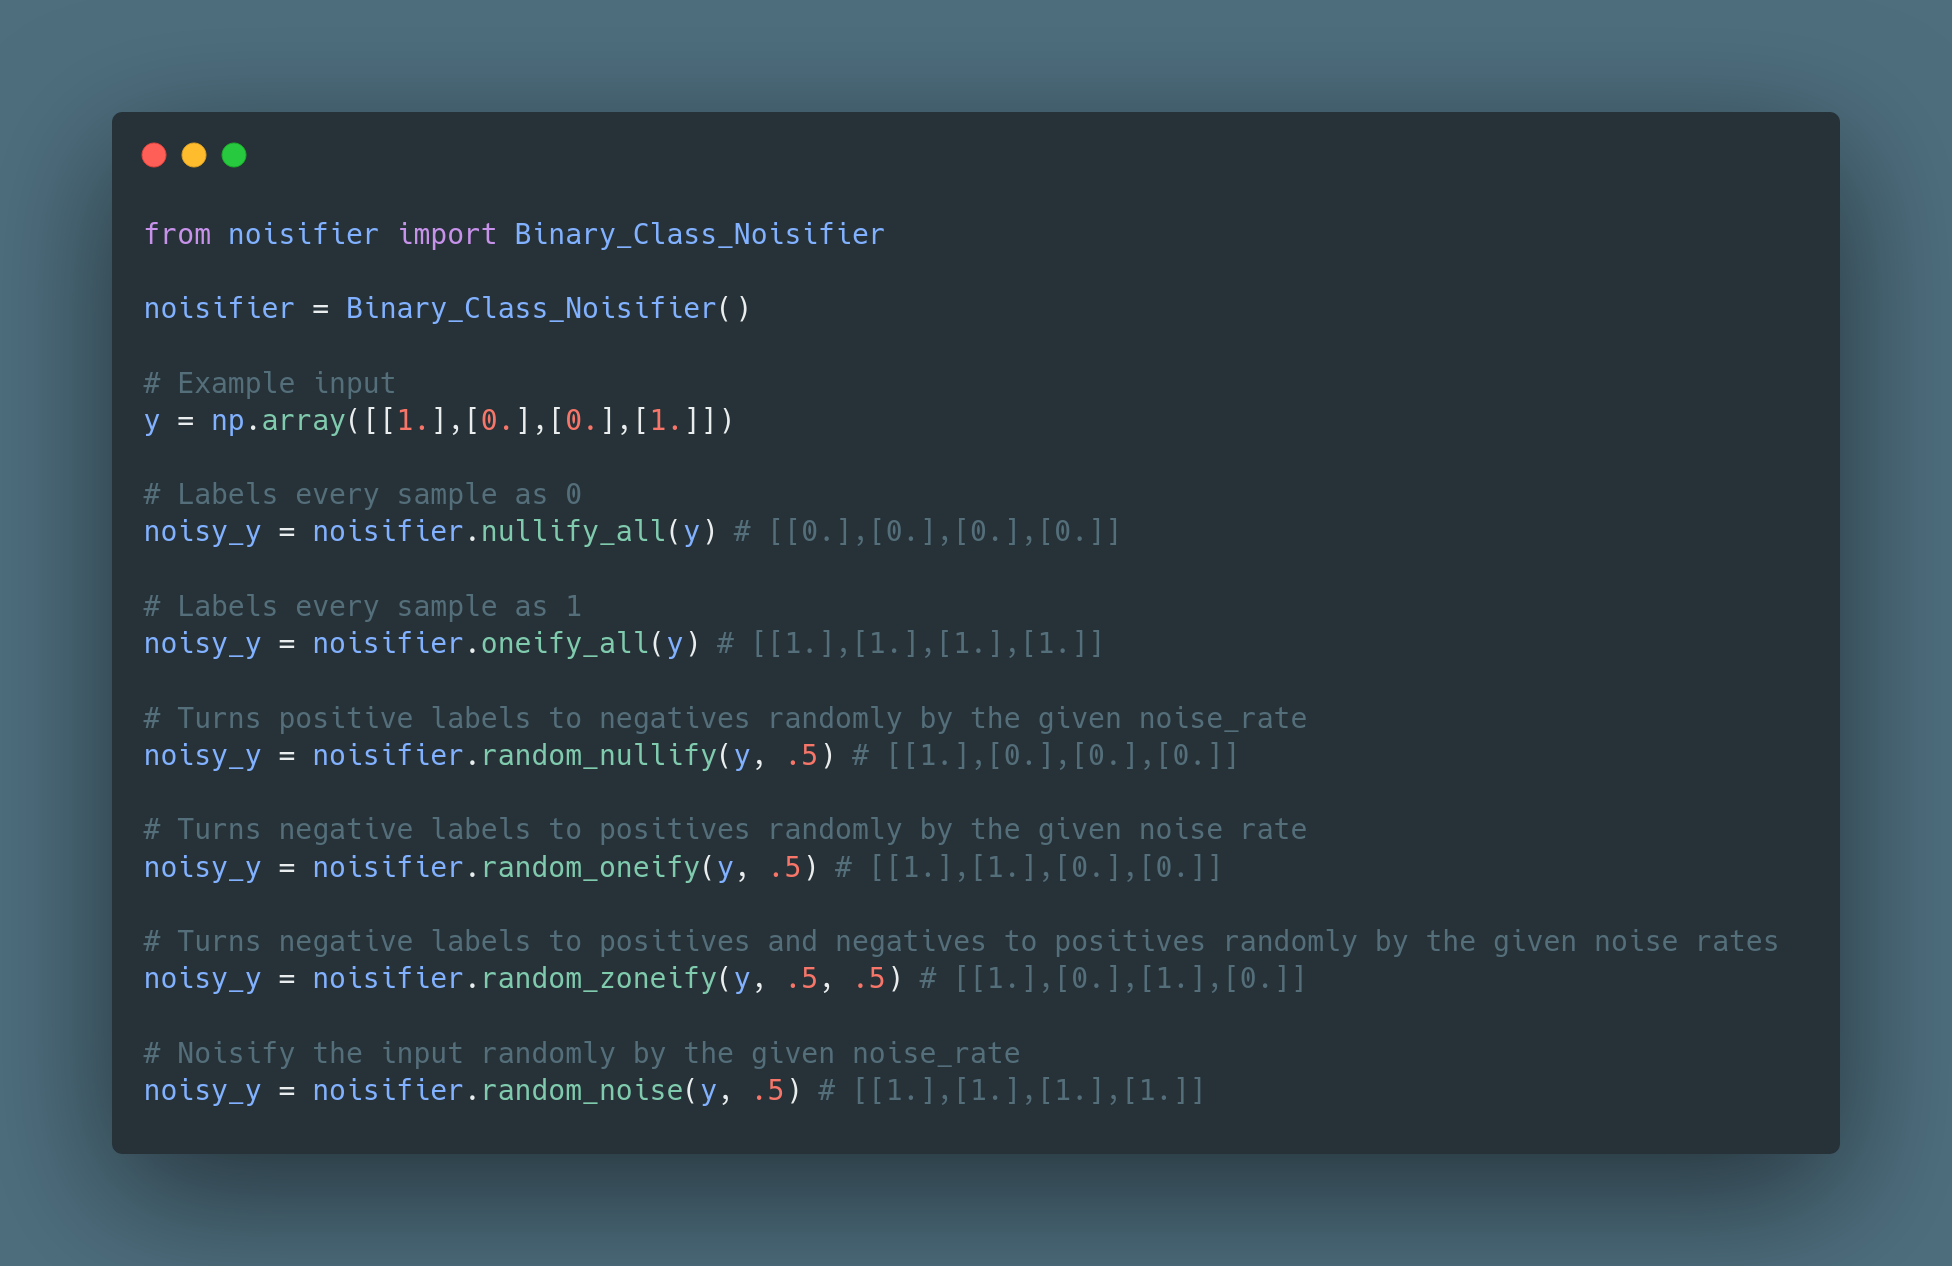
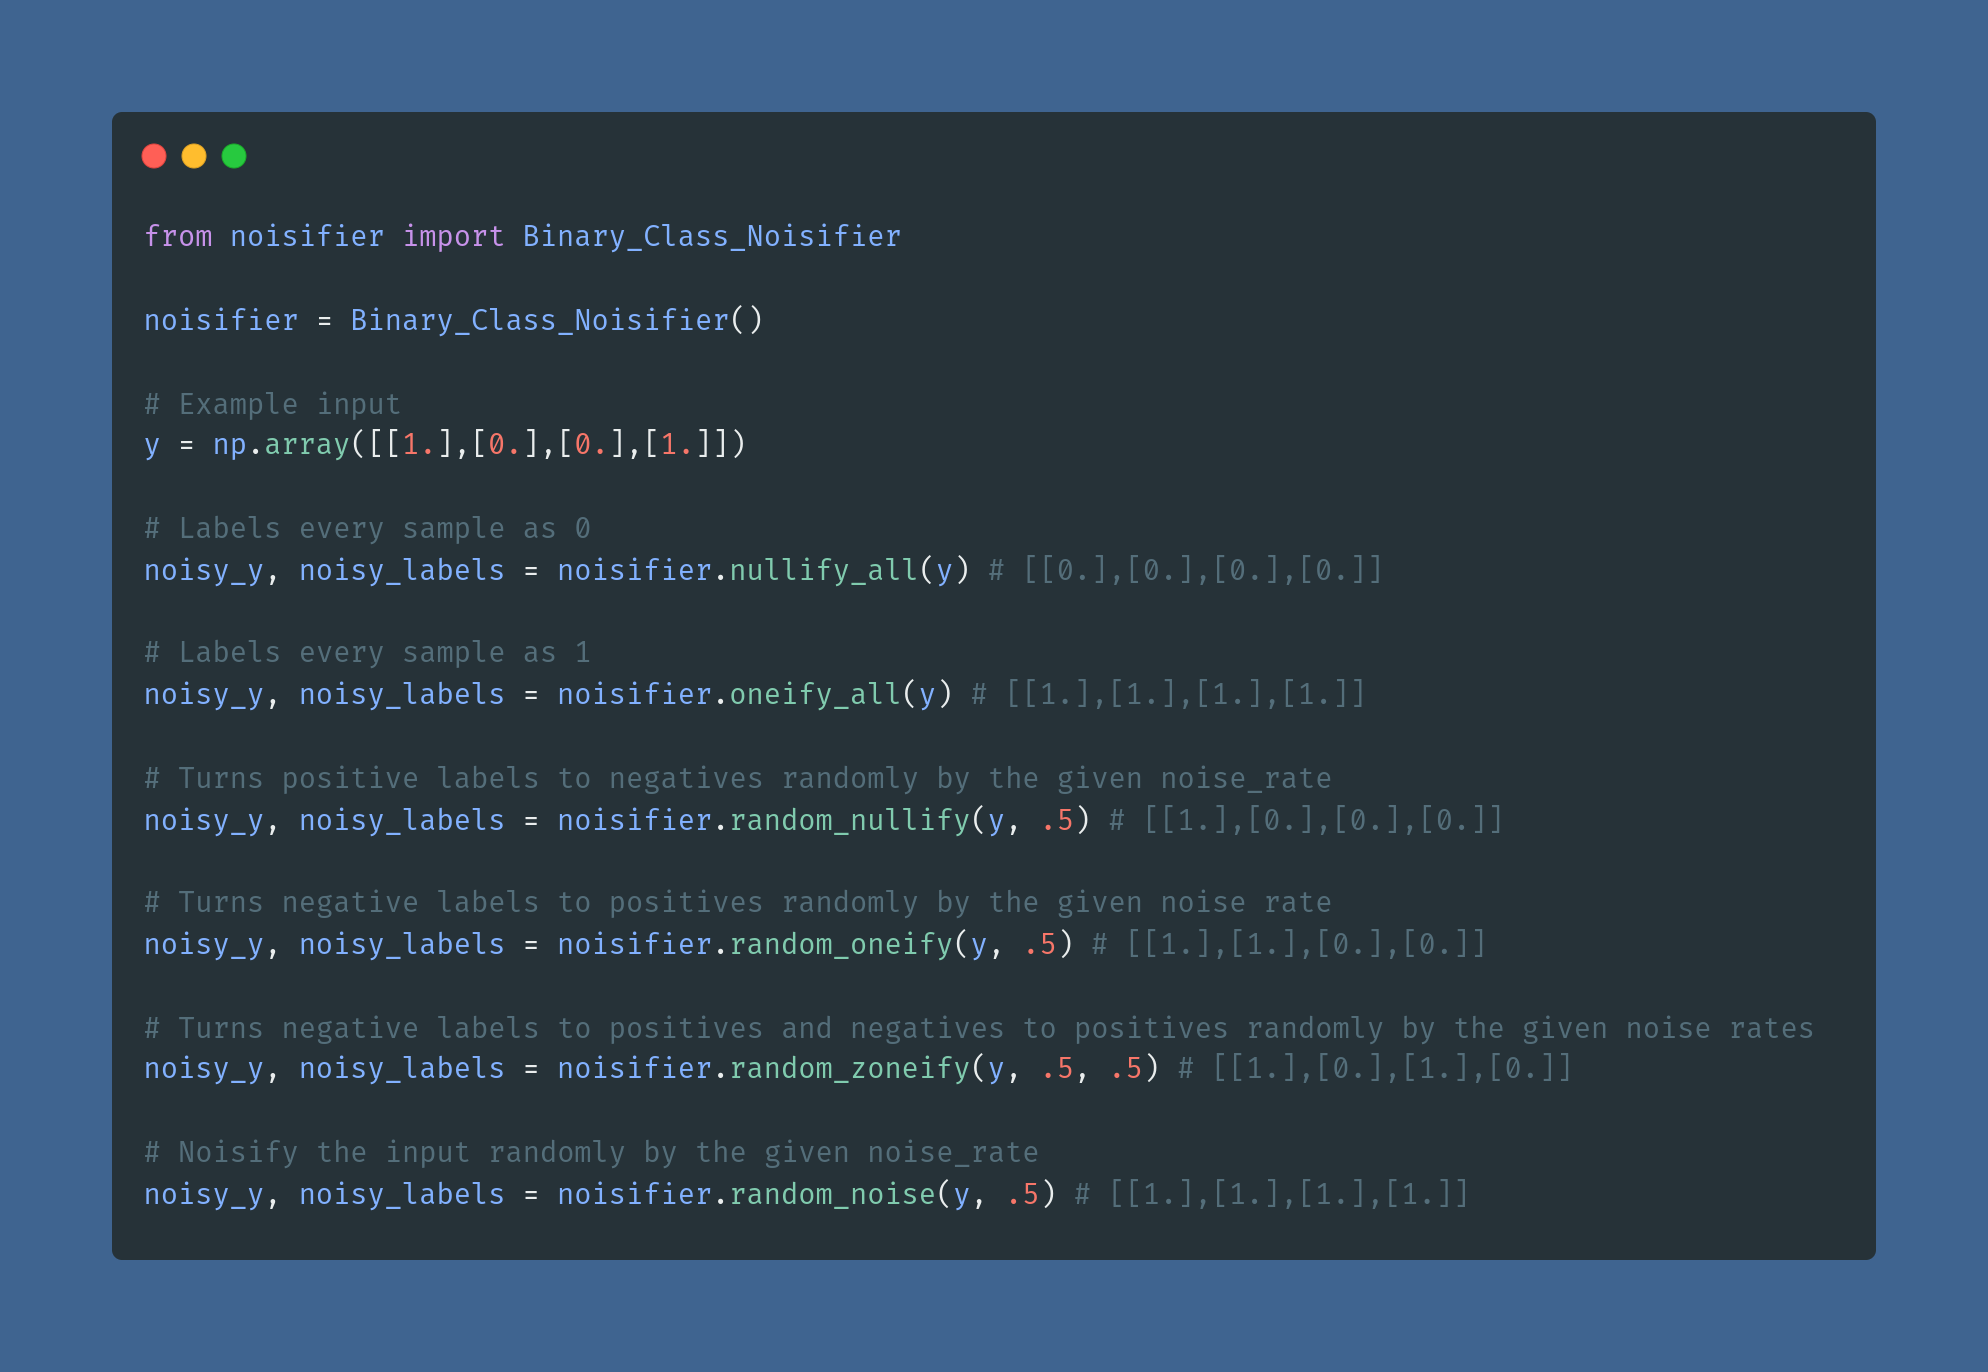
returning noisy labels in the batch

diff --git a/noisifier/multi_label.py b/noisifier/multi_label.py
@@ -19,6 +19,8 @@ class Multi_Label_Noisifier:
         if len(y_batch.shape) != 2:
             raise Exception('The input for noisifier must be a 2D numpy array.')
 
+    def _get_noisy_labels(self, y_batch, y_batch_noisy):
+        return np.argwhere(y_batch != y_batch_noisy)
 
     def random_noise_per_sample(self, y_batch, sample_rate, class_rate, seed=False):
         '''
@@ -39,9 +41,11 @@ class Multi_Label_Noisifier:
         random_classes = np.random.choice(range(0,num_classes),num_noisy_classes, replace=False)
         random_classes = np.expand_dims(random_classes, axis=1)
 
-        y_batch[random_samples, random_classes] = -y_batch[random_samples, random_classes] + 1
+        y_batch_noisy = np.copy(y_batch)
 
-        return y_batch
+        y_batch_noisy[random_samples, random_classes] = -y_batch_noisy[random_samples, random_classes] + 1
+
+        return y_batch_noisy, self._get_noisy_labels(y_batch, y_batch_noisy)
 
     def mix_label_noise(self, y_batch, rate, seed=False):
         '''
@@ -58,12 +62,15 @@ class Multi_Label_Noisifier:
             np.random.seed(0)
 
         num_samples, num_classes = y_batch.shape
-        y_batch = y_batch.flatten()
+        
+        y_batch_noisy = np.copy(y_batch)
+        
+        y_batch_noisy = y_batch_noisy.flatten()
 
         # Get the indices of zeros and map them to a 1-d array
-        zero_indices = np.where(y_batch == 0)[0]
+        zero_indices = np.where(y_batch_noisy == 0)[0]
         # Get the indices of ones and map them to a 1-d array
-        one_indices = np.where(y_batch == 1)[0]
+        one_indices = np.where(y_batch_noisy == 1)[0]
 
         # Calculate the number of zeros to get flipped
         chosen_size_zeros = int(len(zero_indices) * rate)
@@ -75,13 +82,13 @@ class Multi_Label_Noisifier:
         chosen_ones = np.random.choice(one_indices, chosen_size_ones, replace=False)
         
         # Flip the zeros
-        y_batch[chosen_zeros] = 1
+        y_batch_noisy[chosen_zeros] = 1
         # Flip the ones
-        y_batch[chosen_ones] = 0
+        y_batch_noisy[chosen_ones] = 0
         # Reshape the batch
-        y_batch = np.reshape(y_batch, (num_samples, num_classes))
+        y_batch_noisy = np.reshape(y_batch_noisy, (num_samples, num_classes))
 
-        return y_batch
+        return y_batch_noisy, self._get_noisy_labels(y_batch, y_batch_noisy)
 
     def add_missing_noise(self, y_batch, rate, seed=False):
         '''
@@ -95,10 +102,13 @@ class Multi_Label_Noisifier:
             np.random.seed(0)
 
         num_samples, num_classes = y_batch.shape
-        y_batch = y_batch.flatten()
+        
+        y_batch_noisy = np.copy(y_batch)
+        
+        y_batch_noisy = y_batch_noisy.flatten()
 
         # Get the indices of zeros and map them to a 1-d array
-        zero_indices = np.where(y_batch == 0)[0]
+        zero_indices = np.where(y_batch_noisy == 0)[0]
 
         # Calculate the number of zeros to get flipped
         chosen_size = int(len(zero_indices) * rate)
@@ -106,10 +116,10 @@ class Multi_Label_Noisifier:
         chosen_ones = np.random.choice(zero_indices, chosen_size, replace=False)
 
         # Flip labels
-        y_batch[chosen_ones] = 1
-        y_batch = np.reshape(y_batch, (num_samples, num_classes))
+        y_batch_noisy[chosen_ones] = 1
+        y_batch_noisy = np.reshape(y_batch_noisy, (num_samples, num_classes))
 
-        return y_batch
+        return y_batch_noisy, self._get_noisy_labels(y_batch, y_batch_noisy)
 
     def add_extra_noise(self, y_batch, rate, seed=False):
         '''
@@ -123,10 +133,13 @@ class Multi_Label_Noisifier:
             np.random.seed(0)
 
         num_samples, num_classes = y_batch.shape
-        y_batch = y_batch.flatten()
+        
+        y_batch_noisy = np.copy(y_batch)
+        
+        y_batch = y_batch_noisy.flatten()
 
         # Get the indices of ones and map them to a 1-d array
-        one_indices = np.where(y_batch == 1)[0]
+        one_indices = np.where(y_batch_noisy == 1)[0]
 
         # Calculate the number of ones to get flipped
         chosen_size = int(len(one_indices) * rate)
@@ -134,10 +147,10 @@ class Multi_Label_Noisifier:
         chosen_ones = np.random.choice(one_indices, chosen_size, replace=False)
 
         # Flip labels
-        y_batch[chosen_ones] = 0
-        y_batch = np.reshape(y_batch, (num_samples, num_classes))
+        y_batch_noisy[chosen_ones] = 0
+        y_batch_noisy = np.reshape(y_batch_noisy, (num_samples, num_classes))
 
-        return y_batch
+        return y_batch_noisy, self._get_noisy_labels(y_batch, y_batch_noisy)
 
     def add_mix_noise(self, y_batch, rate, seed=False):
         '''
@@ -150,7 +163,10 @@ class Multi_Label_Noisifier:
             np.random.seed(0)
 
         num_samples, num_classes = y_batch.shape
-        y_batch = y_batch.flatten()
+        
+        y_batch_noisy = np.copy(y_batch)
+        
+        y_batch_noisy = y_batch_noisy.flatten()
 
         # Get the indices and map them to a 1-d array
         indices = num_samples * num_classes
@@ -161,10 +177,10 @@ class Multi_Label_Noisifier:
         chosen_ones = np.random.choice(indices, chosen_size, replace=False)
 
         # Flip labels
-        y_batch[chosen_ones] = -y_batch[chosen_ones]+1
-        y_batch = np.reshape(y_batch, (num_samples, num_classes))
+        y_batch_noisy[chosen_ones] = -y_batch_noisy[chosen_ones]+1
+        y_batch_noisy = np.reshape(y_batch_noisy, (num_samples, num_classes))
 
-        return y_batch
+        return y_batch_noisy, self._get_noisy_labels(y_batch, y_batch_noisy)
 
     def add_classwise_noise(self, y_batch, rate, seed=False):
         '''
@@ -179,10 +195,12 @@ class Multi_Label_Noisifier:
 
         num_samples, num_classes = y_batch.shape
         
+        y_batch_noisy = np.copy(y_batch)
+        
         chosen_size = int(num_samples * rate)
 
         for cl in range(num_classes):
             random_samples = np.random.choice(range(0,num_samples),chosen_size, replace=False)
-            y_batch[random_samples,cl] = -y_batch[random_samples,cl] + 1
+            y_batch_noisy[random_samples,cl] = -y_batch_noisy[random_samples,cl] + 1
 
-        return y_batch
+        return y_batch_noisy, self._get_noisy_labels(y_batch, y_batch_noisy)

diff --git a/noisifier/binary_class.py b/noisifier/binary_class.py
@@ -23,7 +23,6 @@ class Binary_Class_Noisifier:
         if y_batch.shape[1] != 1:
             raise Exception('The input shape is wrong. Make it (n,1)')
         
-    
     def __get_label_info(self, y_batch):
         """
         Get y_batch information: Number of zeros and ones, and their indices
@@ -47,6 +46,8 @@ class Binary_Class_Noisifier:
         
         return chosen_zeros, chosen_ones
     
+    def _get_noisy_labels(self, y_batch, y_batch_noisy):
+        return np.argwhere(y_batch != y_batch_noisy)
     
     def nullify_all(self, y_batch):
         """
@@ -56,9 +57,11 @@ class Binary_Class_Noisifier:
         # Check the input
         self.__check_input(y_batch)
         
-        y_batch = 0. * y_batch
+        y_batch_noisy = np.copy(y_batch)
         
-        return y_batch
+        y_batch_noisy = 0. * y_batch_noisy
+        
+        return y_batch_noisy, self._get_noisy_labels(y_batch, y_batch_noisy) 
     
     
     def oneify_all(self, y_batch):
@@ -69,9 +72,11 @@ class Binary_Class_Noisifier:
         # Check the input
         self.__check_input(y_batch)
         
-        y_batch = 0. * y_batch + 1.
+        y_batch_noisy = np.copy(y_batch)
+
+        y_batch_noisy = 0. * y_batch_noisy + 1.
         
-        return y_batch
+        return y_batch_noisy, self._get_noisy_labels(y_batch, y_batch_noisy)
     
     
     def random_nullify(self, y_batch, noise_rate, seed=False):
@@ -86,12 +91,14 @@ class Binary_Class_Noisifier:
         if seed == True:
             np.random.seed(0)
         
-        zero_indices, one_indices, num_of_zeros, num_of_ones = self.__get_label_info(y_batch)
+        y_batch_noisy = np.copy(y_batch)
+        
+        zero_indices, one_indices, num_of_zeros, num_of_ones = self.__get_label_info(y_batch_noisy)
         chosen_zeros, chosen_ones = self.__choose_by_rate(noise_rate, noise_rate, zero_indices, one_indices, num_of_zeros, num_of_ones)
 
-        y_batch[chosen_ones] = 0.        
+        y_batch_noisy[chosen_ones] = 0.        
         
-        return y_batch        
+        return y_batch_noisy, self._get_noisy_labels(y_batch, y_batch_noisy)        
 
         
     def random_oneify(self, y_batch, noise_rate, seed=False):
@@ -106,12 +113,14 @@ class Binary_Class_Noisifier:
         if seed == True:
             np.random.seed(0)
         
-        zero_indices, one_indices, num_of_zeros, num_of_ones = self.__get_label_info(y_batch)
+        y_batch_noisy = np.copy(y_batch)
+        
+        zero_indices, one_indices, num_of_zeros, num_of_ones = self.__get_label_info(y_batch_noisy)
         chosen_zeros, chosen_ones = self.__choose_by_rate(noise_rate, noise_rate, zero_indices, one_indices, num_of_zeros, num_of_ones)
 
-        y_batch[chosen_zeros] = 1.
+        y_batch_noisy[chosen_zeros] = 1.
 
-        return y_batch
+        return y_batch_noisy, self._get_noisy_labels(y_batch, y_batch_noisy)
 
     
     def random_zoneify(self, y_batch, zero_noise_rate, one_noise_rate, seed=False):
@@ -126,13 +135,15 @@ class Binary_Class_Noisifier:
         if seed == True:
             np.random.seed(0)
         
-        zero_indices, one_indices, num_of_zeros, num_of_ones = self.__get_label_info(y_batch)
+        y_batch_noisy = np.copy(y_batch)
+
+        zero_indices, one_indices, num_of_zeros, num_of_ones = self.__get_label_info(y_batch_noisy)
         chosen_zeros, chosen_ones = self.__choose_by_rate(zero_noise_rate, one_noise_rate, zero_indices, one_indices, num_of_zeros, num_of_ones)
 
-        y_batch[chosen_zeros] = 1.
-        y_batch[chosen_ones] = 0.        
+        y_batch_noisy[chosen_zeros] = 1.
+        y_batch_noisy[chosen_ones] = 0.        
 
-        return y_batch
+        return y_batch_noisy, self._get_noisy_labels(y_batch, y_batch_noisy)
 
     
     def random_noise(self, y_batch, noise_rate, seed=False):
@@ -147,11 +158,14 @@ class Binary_Class_Noisifier:
         if seed == True:
             np.random.seed(0)
         
-        input_len = len(y_batch)
+        y_batch_noisy = np.copy(y_batch)
+        
+        input_len = len(y_batch_noisy)
         num_to_flip = int(input_len * noise_rate)
         
         chosen_entries = np.random.choice(input_len, num_to_flip, replace=False)
 
-        y_batch[chosen_entries] = -y_batch[chosen_entries] + 1
+        y_batch_noisy[chosen_entries] = -y_batch_noisy[chosen_entries] + 1
 
-        return y_batch
+        return y_batch_noisy, self._get_noisy_labels(y_batch, y_batch_noisy)
+

diff --git a/noisifier/multi_class.py b/noisifier/multi_class.py
@@ -23,12 +23,14 @@ class Multi_Class_Noisifier:
         if y_batch.shape[0] <= 1:
             raise Exception('The input shape is wrong.')
 
+    def _get_noisy_labels(self, y_batch, y_batch_noisy):
+        return np.argwhere(y_batch != y_batch_noisy)
 
     def flip(self, y_batch, P, seed=0):
 
-        y_batch_copy = np.copy(y_batch)
+        y_batch_noisy = np.copy(y_batch)
 
-        labels = y_batch_copy.shape[0]
+        labels = y_batch_noisy.shape[0]
         flipper = np.random.RandomState(seed)
 
         for i in np.arange(labels):
@@ -40,9 +42,9 @@ class Multi_Class_Noisifier:
             index = np.where(flipped == 1)[1]
             
             # Flip the values
-            y_batch_copy[i][P_row_index], y_batch_copy[i][index] = y_batch_copy[i][index], y_batch_copy[i][P_row_index]
+            y_batch_noisy[i][P_row_index], y_batch_noisy[i][index] = y_batch_noisy[i][index], y_batch_noisy[i][P_row_index]
 
-        return y_batch_copy
+        return y_batch_noisy, self._get_noisy_labels(y_batch, y_batch_noisy)
 
     def symmetry_flip(self, y_batch, noise_rate, seed=0):
         '''
@@ -69,9 +71,9 @@ class Multi_Class_Noisifier:
                 P[i, i] = 1. - noise_rate
             P[num_classes-1, num_classes-1] = 1. - noise_rate
 
-        y_batch = self.flip(y_batch, P, seed)
+        y_batch, noisy_labels = self.flip(y_batch, P, seed)
 
-        return y_batch
+        return y_batch, noisy_labels
 
     def pair_flip(self, y_batch, noise_rate, seed=0):
         '''
@@ -97,6 +99,6 @@ class Multi_Class_Noisifier:
                 P[i, i], P[i, i + 1] = 1. - noise_rate, noise_rate
             P[num_classes-1, num_classes-1], P[num_classes-1, 0] = 1. - noise_rate, noise_rate
 
-        y_batch = self.flip(y_batch, P, seed)
+        y_batch, noisy_labels = self.flip(y_batch, P, seed)
             
-        return y_batch
+        return y_batch, noisy_labels

diff --git a/test/test_multi_label.py b/test/test_multi_label.py
@@ -1,2 +1,35 @@
 import unittest
 import numpy as np
+from noisifier.multi_label import Multi_Label_Noisifier
+
+class TestMultiLabelNoisifier(unittest.TestCase):
+
+    def testRandomNoisePerSample(self):
+        noisifier = Multi_Label_Noisifier()
+        sample_rate = 0.5
+        class_rate = 0.5
+        row_sum = 5
+        check_value = 25.
+        
+        y = np.array([
+            [1.,0.,0.,1.,0.,1.,0.,1.,1.,0.],
+            [1.,0.,0.,1.,0.,1.,0.,1.,1.,0.],
+            [1.,0.,0.,1.,0.,1.,0.,1.,1.,0.],
+            [1.,0.,0.,1.,0.,1.,0.,1.,1.,0.],
+            [1.,0.,0.,1.,0.,1.,0.,1.,1.,0.],
+            [1.,0.,0.,1.,0.,1.,0.,1.,1.,0.],
+            [1.,0.,0.,1.,0.,1.,0.,1.,1.,0.],
+            [1.,0.,0.,1.,0.,1.,0.,1.,1.,0.],
+            [1.,0.,0.,1.,0.,1.,0.,1.,1.,0.],
+            [1.,0.,0.,1.,0.,1.,0.,1.,1.,0.]
+            ])
+
+        y_noisy, noisy_samples = noisifier.random_noise_per_sample(y, sample_rate, class_rate, True)
+
+        condition = np.sum(np.absolute(y_noisy-y), axis=1)
+        condition = np.sum(np.where(condition == row_sum, condition, 0.))
+
+        self.assertEqual(condition, check_value, "Should be 25")
+
+if __name__ == '__main__':
+    unittest.main()

diff --git a/README.md b/README.md
@@ -45,6 +45,20 @@ y = keras.utils.to_categorical(y, number_of_classes)
 
 Use a float between 0. and 1. for all the noise rates.
 
+## Tests
+
+To run all the tests:
+
+```
+python -m unittest discover test
+```
+
+To run partial test:
+
+```
+python -m unittest test.test_multi_label
+```
+
 ## Licence
 
 noisifier is released under the MIT licence.
